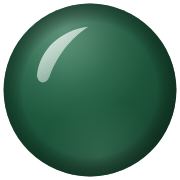
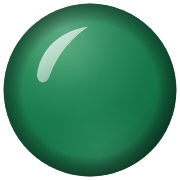
site: mark and early page use the real brand green #157347
The mark as supplied read ~#1D583C and the pages I added recently used #1B7A4A;
both were off. #157347 is the project's --green, used across all 195 pages, the
extension, and the wordmark's period. Retinted the ball's gradient around it and
regenerated the icon set.

Claude-Session: https://claude.ai/code/session_01Kng77GJ8FHn1s8r8XDRAKK

diff --git a/early.html b/early.html
@@ -1,6 +1,6 @@
 <!doctype html><html lang="en"><head><meta charset="utf-8"><meta name="viewport" content="width=device-width,initial-scale=1"><meta name="robots" content="noindex">
 <title>Lowball early access</title>
-<style>body{font:16px/1.55 system-ui,-apple-system,Segoe UI,Roboto,sans-serif;color:#101828;background:#fff;margin:0}main{max-width:620px;margin:48px auto;padding:0 20px}h1{font-size:28px;margin:0 0 8px}h2{font-size:18px;margin:28px 0 8px}ol{padding-left:22px}li{margin:8px 0}code{background:#F2F4F7;padding:2px 6px;border-radius:4px}.btn{display:inline-block;background:#1B7A4A;color:#fff;text-decoration:none;font-weight:700;padding:12px 18px;border-radius:10px;margin:8px 0}.muted{color:#475467;font-size:14px}a{color:#1B7A4A}</style></head><body><main>
+<style>body{font:16px/1.55 system-ui,-apple-system,Segoe UI,Roboto,sans-serif;color:#101828;background:#fff;margin:0}main{max-width:620px;margin:48px auto;padding:0 20px}h1{font-size:28px;margin:0 0 8px}h2{font-size:18px;margin:28px 0 8px}ol{padding-left:22px}li{margin:8px 0}code{background:#F2F4F7;padding:2px 6px;border-radius:4px}.btn{display:inline-block;background:#157347;color:#fff;text-decoration:none;font-weight:700;padding:12px 18px;border-radius:10px;margin:8px 0}.muted{color:#475467;font-size:14px}a{color:#157347}</style></head><body><main>
 <div style="display:flex;align-items:center;gap:12px;margin-bottom:14px"><img src="/img/icon128.png" alt="" width="40" height="40" style="border-radius:9px" onerror="this.style.display='none'"><strong style="font-size:20px">Lowball</strong></div>
 <h1>Early access</h1>
 <p>Lowball is a Chrome extension for renters. Open a rental listing and it shows what similar places ask, how many landlords in that position have already cut, what to offer, and the letter to send. It is not in the Chrome Web Store yet, so installing takes two minutes by hand. Desktop Chrome only.</p>
